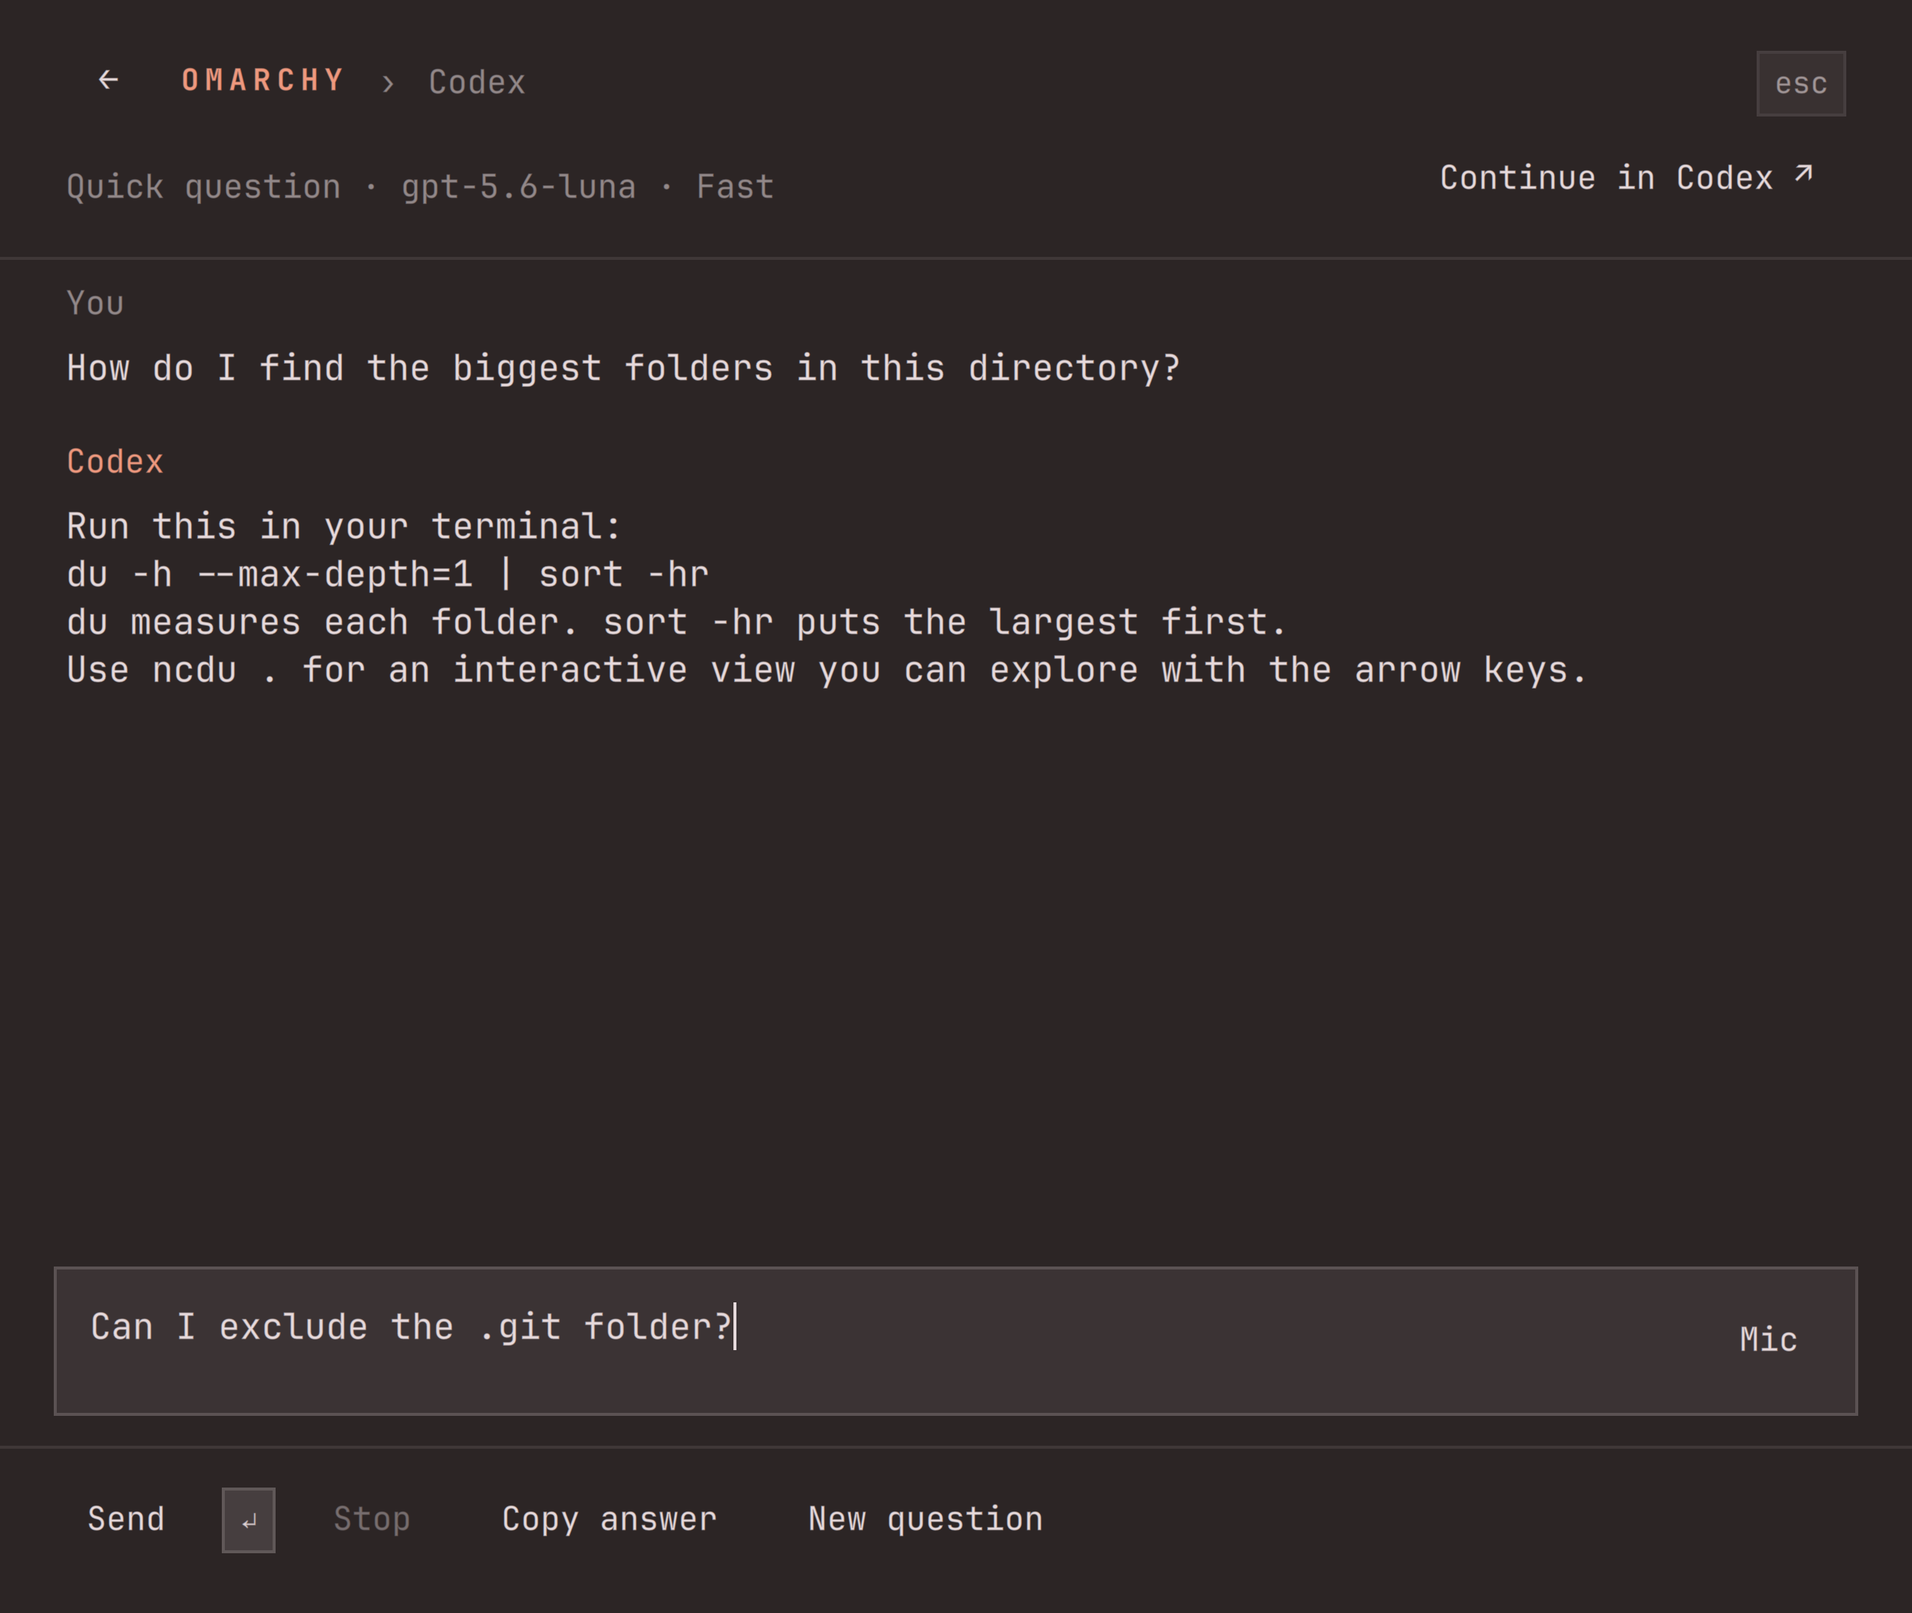
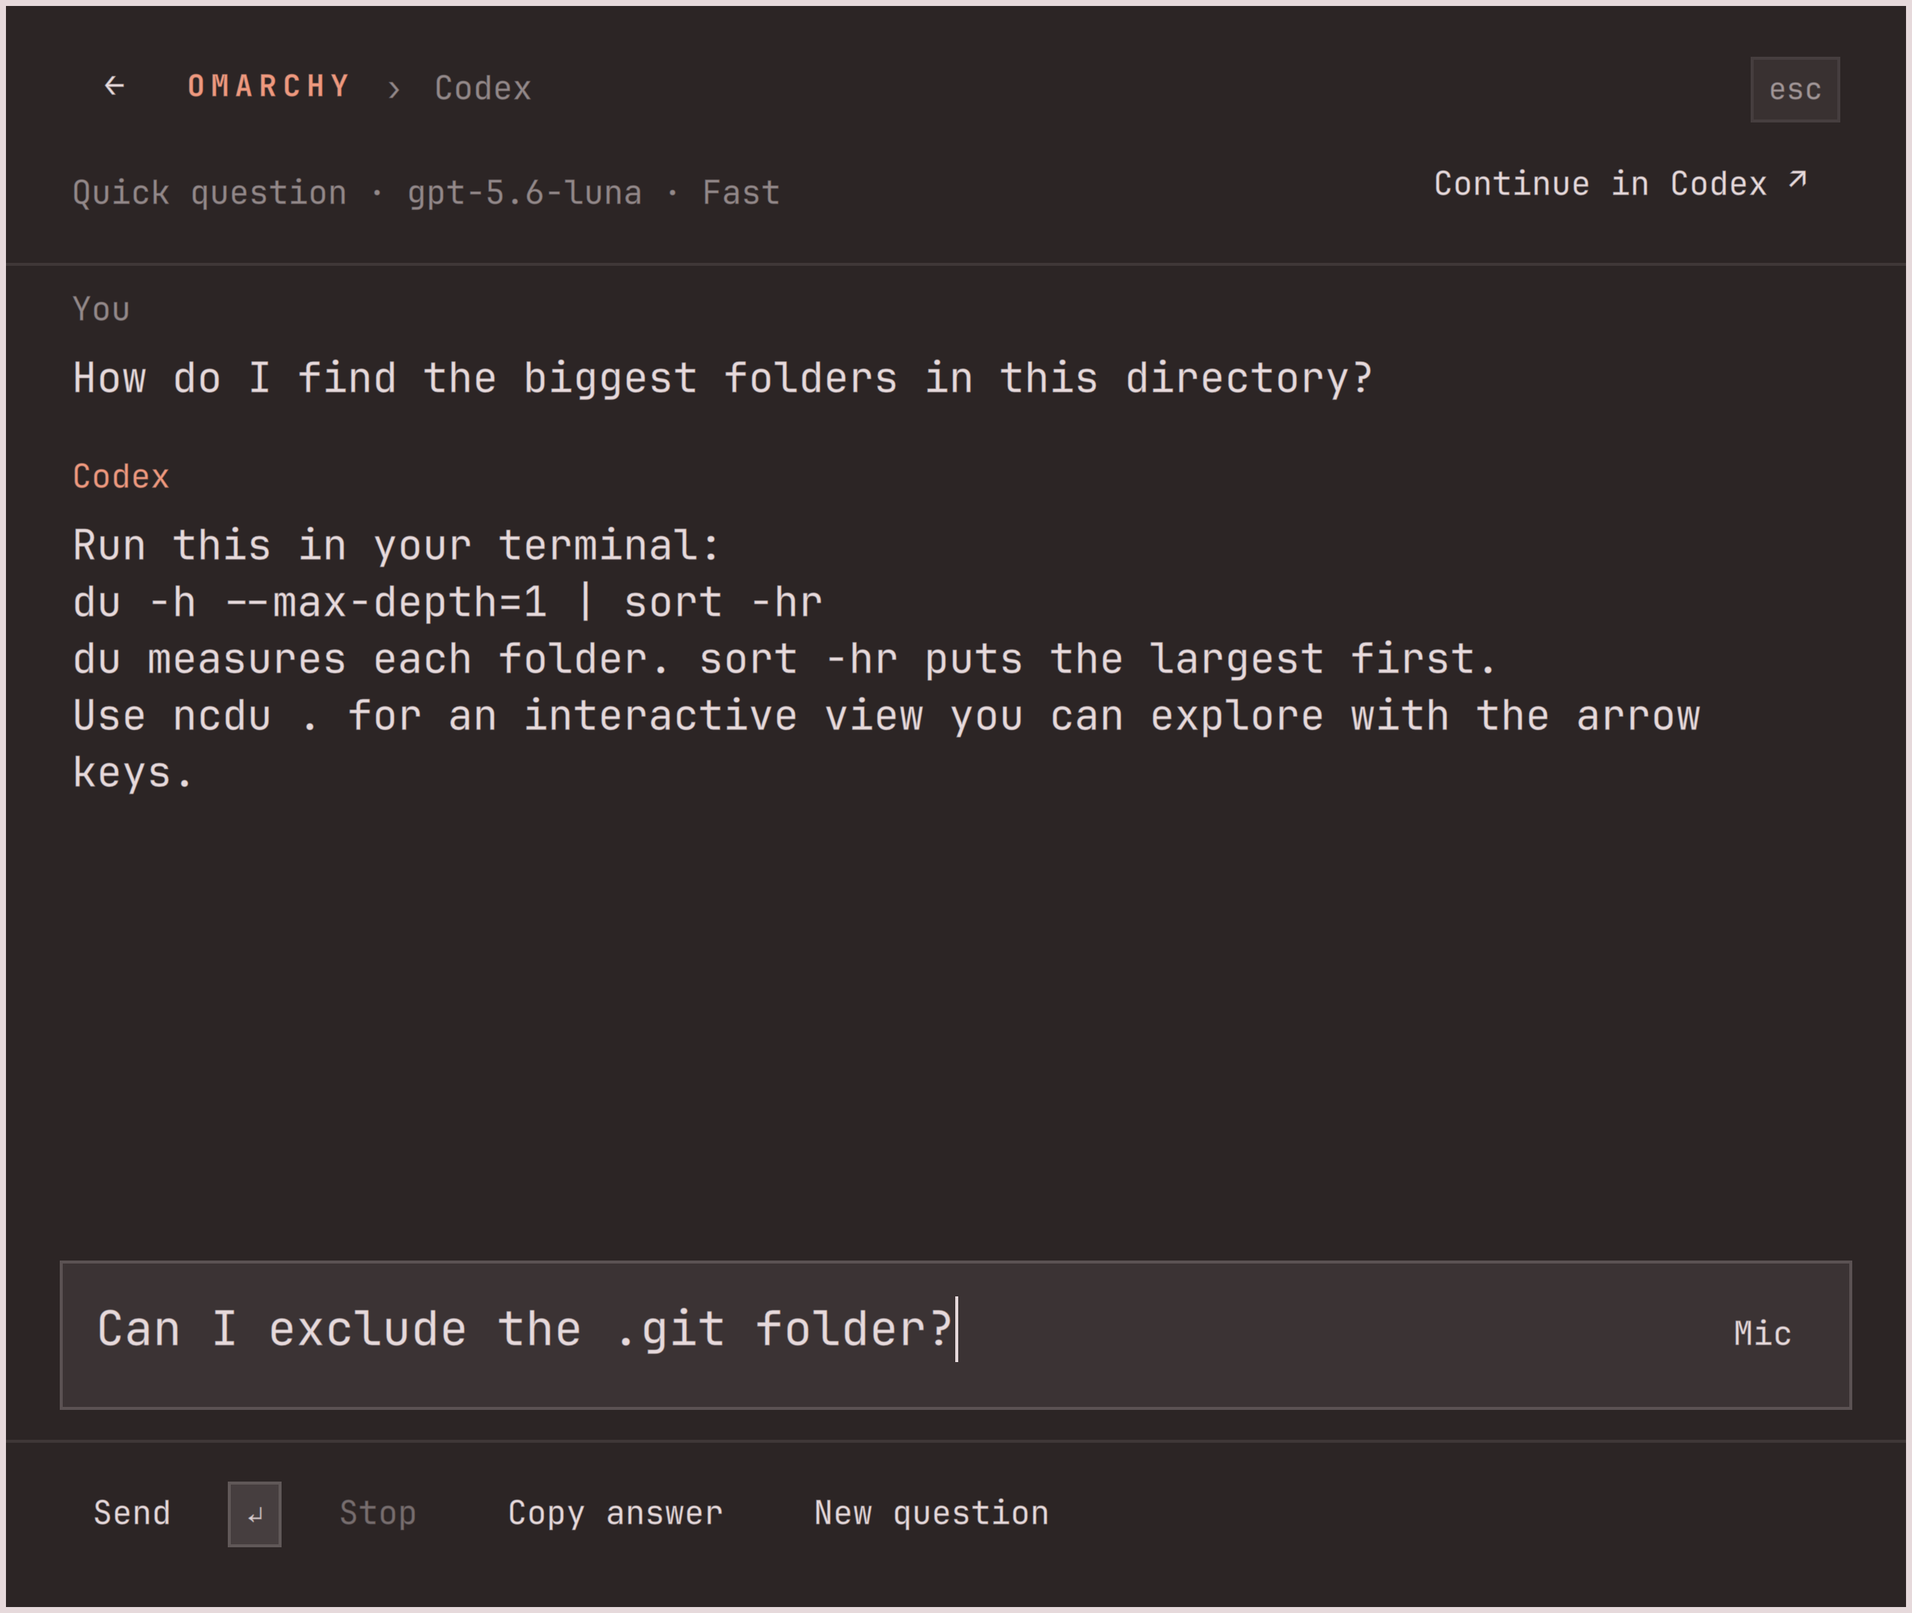
Keep the card's border and the palette's type scale in provider views
A provider view loaded over the palette filled the card with its own opaque
background at z 5, painting over the border the theme draws -- BorderSurface
renders it as the surface itself, or as an overlay child below that z -- so
the submenus lost the ring the main menu has. The views also sized their text
from Style.font.body while the palette's own rows use title and its search
field heading, and they ignored the comfortable/compact density bump, so the
text read a step smaller the moment a view took over.

The host now paints the backdrop itself, inset by the card's border widths and
rounded to match, and loads the view inside it; a view no longer needs (or
wants) a background of its own. It also exposes the palette's type scale as
fontInput/fontTitle/fontBody/fontLabel/fontCaption, and paintsViewBackdrop so
a third-party view can tell whether it still has to paint one. The Codex
conversation binds to all of it, including the host's font family.

diff --git a/codex/ConversationView.qml b/codex/ConversationView.qml
@@ -15,6 +15,12 @@ Item {
   readonly property color foreground: host ? host.foreground : "white"
   readonly property color muted: host ? host.muted : "#aaa"
   readonly property color accent: host ? host.accent : "#cba6f7"
+  readonly property string fontFamily: host && host.fontFamily ? host.fontFamily : Style.font.menuFamily
+  readonly property int fontInput: host ? host.fontInput : Style.font.heading
+  readonly property int fontTitle: host ? host.fontTitle : Style.font.title
+  readonly property int fontBody: host ? host.fontBody : Style.font.body
+  readonly property int fontLabel: host ? host.fontLabel : Style.font.bodySmall
+  readonly property int fontCaption: host ? host.fontCaption : Style.font.caption
   readonly property var approval: session && session.approvals.length ? session.approvals[0] : null
   function focusInput() { composer.forceActiveFocus(); composer.cursorPosition = composer.text.length }
   function beginVoice() { voicePrefix = session.draft ? session.draft.replace(/\s*$/, " ") : "" }
@@ -45,7 +51,7 @@ Item {
   Keys.onPressed: function(event) {
     if (event.key === Qt.Key_Escape) { host.cancel(); event.accepted = true }
   }
-  Rectangle { anchors.fill: parent; color: host ? host.background : "#222" }
+  // The host paints the backdrop behind this view, inside the card border.
   // Use the same theme-controlled kit as the surrounding Omarchy shell.
   component ActionButton: Ui.Button {
     id: control
@@ -57,8 +63,8 @@ Item {
     opacity: enabled ? 1 : 0.4
     foreground: root.foreground
     accent: root.accent
-    fontFamily: Style.font.menuFamily
-    fontSize: Style.font.bodySmall
+    fontFamily: root.fontFamily
+    fontSize: root.fontLabel
     width: implicitWidth; height: implicitHeight
     onClicked: triggered()
     Keys.onReturnPressed: event => { if (!event.isAutoRepeat) triggered(); event.accepted = true }
@@ -75,15 +81,15 @@ Item {
     ActionButton { id: back; objectName: "conversationBack"; label: "←"; tooltipText: "Back to results"; onTriggered: host.goBack() }
     Row {
       anchors.left: back.right; anchors.leftMargin: Style.space(10); y: Style.space(8); spacing: Style.space(10)
-      Text { text: "OMARCHY"; color: root.accent; font.family: Style.font.menuFamily; font.pixelSize: Style.font.caption; font.letterSpacing: 2; font.weight: Font.Bold }
-      Text { text: "›"; color: root.muted; font.family: Style.font.menuFamily; font.pixelSize: Style.font.bodySmall }
-      Text { text: "Codex"; color: root.muted; font.family: Style.font.menuFamily; font.pixelSize: Style.font.bodySmall }
+      Text { text: "OMARCHY"; color: root.accent; font.family: root.fontFamily; font.pixelSize: root.fontCaption; font.letterSpacing: 2; font.weight: Font.Bold }
+      Text { text: "›"; color: root.muted; font.family: root.fontFamily; font.pixelSize: root.fontLabel }
+      Text { text: "Codex"; color: root.muted; font.family: root.fontFamily; font.pixelSize: root.fontLabel }
     }
     Keycap { anchors.right: parent.right; y: Style.space(5); label: "esc"; foreground: root.foreground }
     Text {
       y: Style.space(43); width: parent.width - external.width - Style.space(12); elide: Text.ElideMiddle
       text: session.mode === "agent" ? session.cwd : "Quick question · " + (session.settings.model || "gpt-5.6-luna") + (session.settings.fast === false ? " · Standard" : " · Fast")
-      color: root.muted; font.family: Style.font.menuFamily; font.pixelSize: Style.font.bodySmall
+      color: root.muted; font.family: root.fontFamily; font.pixelSize: root.fontLabel
     }
     ActionButton { id: external; anchors.right: parent.right; y: Style.space(33); label: session.busy ? "Stop & continue ↗" : "Continue in Codex ↗"; available: !!session.threadId; onTriggered: session.requestHandoff() }
   }
@@ -101,24 +107,24 @@ Item {
       required property string role
       required property string text
       width: history.width; height: label.height + body.height + Style.space(6)
-      Text { id: label; text: parent.role === "user" ? "You" : parent.role === "activity" ? "Activity" : "Codex"; color: parent.role === "user" ? root.muted : root.accent; font.family: Style.font.menuFamily; font.pixelSize: Style.font.bodySmall }
+      Text { id: label; text: parent.role === "user" ? "You" : parent.role === "activity" ? "Activity" : "Codex"; color: parent.role === "user" ? root.muted : root.accent; font.family: root.fontFamily; font.pixelSize: root.fontLabel }
       TextEdit {
         id: body; y: label.height + Style.space(6); width: parent.width; height: contentHeight
         text: root.markdown(parent.text); textFormat: TextEdit.MarkdownText; wrapMode: TextEdit.Wrap
         readOnly: true; selectByMouse: true; color: root.foreground
         selectionColor: Style.selectionFillFor(root.foreground, root.accent)
-        font.family: Style.font.menuFamily; font.pixelSize: parent.role === "activity" ? Style.font.bodySmall : Style.font.body
+        font.family: root.fontFamily; font.pixelSize: parent.role === "activity" ? root.fontLabel : root.fontTitle
         onLinkActivated: function(link) { if (/^https?:\/\//.test(link)) Qt.openUrlExternally(link) }
       }
     }
-    Text { visible: !history.count; anchors.centerIn: parent; width: parent.width; horizontalAlignment: Text.AlignHCenter; wrapMode: Text.Wrap; text: session.busy ? "Connecting to Codex…" : "Ask a question. Keep the conversation here.\nType or use your voice hotkey."; color: root.muted; font.family: Style.font.menuFamily; font.pixelSize: Style.font.body }
+    Text { visible: !history.count; anchors.centerIn: parent; width: parent.width; horizontalAlignment: Text.AlignHCenter; wrapMode: Text.Wrap; text: session.busy ? "Connecting to Codex…" : "Ask a question. Keep the conversation here.\nType or use your voice hotkey."; color: root.muted; font.family: root.fontFamily; font.pixelSize: root.fontTitle }
   }
   Text {
     id: status
     x: Style.space(22); y: inputBox.y - height - Style.space(10); width: parent.width - x * 2
     text: host && host.voice.active ? (host.voice.phase === "transcribing" ? "Finishing transcript…" : "Listening…") : session.error || root.localStatus || session.activity
     color: session.error ? Color.urgent : root.muted; elide: Text.ElideRight
-    font.family: Style.font.menuFamily; font.pixelSize: Style.font.bodySmall
+    font.family: root.fontFamily; font.pixelSize: root.fontLabel
   }
   Ui.BorderSurface {
     id: inputBox
@@ -146,7 +152,7 @@ Item {
       text: session.draft; wrapMode: TextEdit.Wrap; clip: true; selectByMouse: true
       onCursorRectangleChanged: editorScroll.revealCursor()
       color: root.foreground; selectionColor: Style.selectionFillFor(root.foreground, root.accent)
-      font.family: Style.font.menuFamily; font.pixelSize: Style.font.body
+      font.family: root.fontFamily; font.pixelSize: root.fontInput
       onTextChanged: if (activeFocus && text !== session.draft) session.draft = text
       Keys.priority: Keys.BeforeItem
       Keys.onReleased: function(event) { if (host.voice.active && host.voiceTrigger === "hold" && host.isSuperKey(event.key)) { host.voiceStop(); event.accepted = true } }
@@ -193,8 +199,8 @@ Item {
     Column {
       id: approvalContent
       width: parent.width; spacing: Style.space(16)
-      Text { text: "Codex needs your input"; color: root.foreground; font.family: Style.font.menuFamily; font.pixelSize: Style.font.title }
-      TextEdit { width: parent.width; height: contentHeight; readOnly: true; selectByMouse: true; wrapMode: TextEdit.Wrap; color: root.foreground; font.family: Style.font.menuFamily; font.pixelSize: Style.font.body;
+      Text { text: "Codex needs your input"; color: root.foreground; font.family: root.fontFamily; font.pixelSize: root.fontInput }
+      TextEdit { width: parent.width; height: contentHeight; readOnly: true; selectByMouse: true; wrapMode: TextEdit.Wrap; color: root.foreground; font.family: root.fontFamily; font.pixelSize: root.fontBody;
         text: session.approvalDetail(root.approval) }
 
       Repeater {
@@ -202,10 +208,10 @@ Item {
         Column {
           required property var modelData
           width: parent.width; spacing: Style.space(8)
-          Text { width: parent.width; wrapMode: Text.Wrap; text: modelData.question + ((modelData.options || []).length ? "\n" + modelData.options.map(x => x.label).join(" · ") : ""); color: root.foreground; font.family: Style.font.menuFamily; font.pixelSize: Style.font.body }
+          Text { width: parent.width; wrapMode: Text.Wrap; text: modelData.question + ((modelData.options || []).length ? "\n" + modelData.options.map(x => x.label).join(" · ") : ""); color: root.foreground; font.family: root.fontFamily; font.pixelSize: root.fontTitle }
           Ui.TextField {
             width: parent.width; foreground: root.foreground; accent: root.accent
-            font.family: Style.font.menuFamily; font.pixelSize: Style.font.body
+            font.family: root.fontFamily; font.pixelSize: root.fontTitle
             onTextEdited: { var a = Object.assign({}, root.answers); a[modelData.id] = text; root.answers = a }
           }
         }

diff --git a/Keystroke.qml b/Keystroke.qml
@@ -325,6 +325,20 @@ Item {
   readonly property color hairline: Util.alpha(foreground, 0.12)
   readonly property color muted: Util.alpha(foreground, 0.55)
 
+  // Type scale for provider views. A view covers the whole card, so it has to
+  // carry the palette's own sizes -- including the density bump -- or it reads
+  // a step smaller than the results it replaced. Ladder: fontInput is the
+  // search field, fontTitle a row title, fontBody a preview body, fontLabel a
+  // row subtitle or footer, fontCaption a keycap or the breadcrumb brand.
+  readonly property int fontInput: compact ? Style.font.heading : Style.font.heading + 2
+  readonly property int fontTitle: compact ? Style.font.title : Style.font.title + 1
+  readonly property int fontBody: Style.font.body
+  readonly property int fontLabel: Style.font.bodySmall
+  readonly property int fontCaption: Style.font.caption
+  // Tells a provider view it need not paint its own backdrop; an older
+  // host leaves this undefined, so a view can still fall back.
+  readonly property bool paintsViewBackdrop: true
+
   onPendingChanged: { if (pending) loadingDelay.restart(); else { loadingDelay.stop(); showLoading = false } }
   Timer { id: loadingDelay; interval: 180; onTriggered: root.showLoading = root.pending }
   Timer { id: debounce; interval: 16; onTriggered: root.runQuery() }
@@ -775,9 +789,24 @@ Item {
       Accessible.name: "Keystroke command palette"
       MouseArea { anchors.fill: parent; onClicked: {} }
 
+      // A provider view covers the palette, so the host paints the backdrop
+      // it needs and keeps both inside the card's border. Filling the card
+      // outright would paint over the border ring, which BorderSurface draws
+      // as the surface itself (or as an overlay child below this z).
+      Rectangle {
+        id: viewBackdrop
+        visible: !!providerView.item
+        z: 4
+        anchors.fill: parent
+        anchors.topMargin: card.borderTop; anchors.rightMargin: card.borderRight
+        anchors.bottomMargin: card.borderBottom; anchors.leftMargin: card.borderLeft
+        radius: Math.max(0, card.radius - Math.max(card.borderTop, card.borderLeft))
+        color: root.background
+      }
+
       Loader {
         id: providerView
-        anchors.fill: parent
+        anchors.fill: viewBackdrop
         z: 5
         onLoaded: { item.host = root; if (typeof item.focusInput === "function") Qt.callLater(item.focusInput) }
       }
@@ -836,7 +865,7 @@ Item {
           selectionColor: Util.alpha(root.accent, 0.45)
           selectedTextColor: root.foreground
           font.family: root.fontFamily
-          font.pixelSize: root.compact ? Style.font.heading : Style.font.heading + 2
+          font.pixelSize: root.fontInput
           selectByMouse: true
           clip: true
           focus: true

diff --git a/docs/providers.md b/docs/providers.md
@@ -111,6 +111,8 @@ The palette is the view's theme and its keyboard context. These members are part
 | Member | Meaning |
 | --- | --- |
 | `background`, `foreground`, `accent`, `muted`, `hairline` (colors), `fontFamily` (string), `compact` (bool) | The palette's theme, already resolved against the active Omarchy theme and Keystroke's appearance settings. Use them instead of `Color.menu.*` so the accent choice applies to you too. |
+| `fontInput`, `fontTitle`, `fontBody`, `fontLabel`, `fontCaption` (ints) | The palette's own type scale, density bump included. Use these instead of `Style.font.*` so a view reads at the size of the results it replaced -- see below. |
+| `paintsViewBackdrop` (bool) | True on a host that paints the backdrop behind your view. Undefined on older builds, which is the only case where a view should paint its own. |
 | `cancel()` | Close the palette (what `Esc` does). |
 | `goBack()` | Leave the view and return to the results, restoring the query. What `←` and `Backspace` on an empty composer do in the bundled views. |
 | `requery()` | Re-run the palette's query; relevant when your rows changed while the view was shown. |
@@ -120,6 +122,20 @@ The palette is the view's theme and its keyboard context. These members are part
 | `home`, `omarchyPath`, `shell`, `appLibrary`, `config` (read-only) | The same values `ctx` carries. |
 
 The view runs inside `omarchy-shell`, so `import qs.Commons` and `import qs.Ui` work: `Style.space`, `Style.font.*`, `Style.cornerRadius`, `Util.alpha`, `Ui.Button`, `Ui.BorderSurface` and `Ui.TextField` are the kit the bundled views are made of.
+
+### Styling a view
+
+The host loads the view *inside* the card's border and paints the themed backdrop behind it, so a view must not fill its whole area with an opaque rectangle: that covers the border the active theme draws, and the submenu stops looking like the menu it came from. A view that also has to run against older Keystroke builds can keep its own backdrop behind `visible: !(host && host.paintsViewBackdrop)`.
+
+Sizes are the other half of that. The palette sets its rows in `title` and its search field in `heading`, and shifts both up a step in the comfortable density; a view that reaches for `Style.font.body` directly reads smaller than the results it replaced and ignores the density setting. Take sizes from the host instead:
+
+| token | palette role | size |
+| --- | --- | --- |
+| `host.fontInput` | the search field; a view's own editor | `heading`, +2 when comfortable |
+| `host.fontTitle` | a result row's title; a view's primary content | `title`, +1 when comfortable |
+| `host.fontBody` | a preview body; long secondary text | `body` |
+| `host.fontLabel` | a row subtitle, the status line, the footer | `bodySmall` |
+| `host.fontCaption` | keycaps, the breadcrumb brand | `caption` |
 
 ## Installing from a local checkout
 
